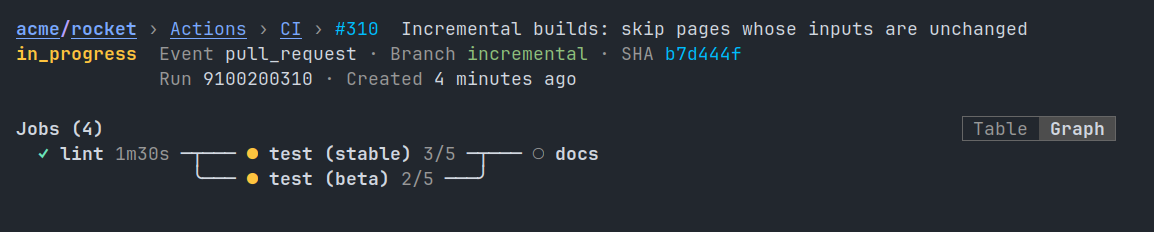
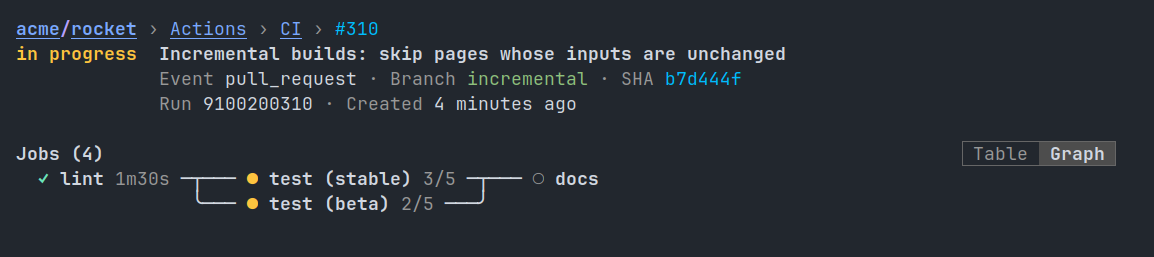
Show a run's title whole under its crumbs, and states in words
A run page's top row ended with its title, cut to fit.  The crumbs now
end at the run's number, and the state heads the title on the next
line, wrapped rather than cut, with the details lined up under it, as
on an issue or PR page.  The pin keeps the title.

Runs, jobs and steps show their state in words, "in progress" for the
API's "in_progress".  A new screenshot shows a run scrolled, pinned.

Changed region(s): [[0.0, 0.0905, 0.9047, 0.4526], [0.0, 0.5129, 0.5303, 0.8448], [0.8423, 0.4828, 0.9671, 0.6638]]

diff --git a/CHANGELOG.md b/CHANGELOG.md
@@ -4,6 +4,8 @@ All notable changes to this project will be documented in this file.
 The format is based on [Keep a Changelog](https://keepachangelog.com/en/1.0.0/).
 
 ## [Unreleased]
+* Runs, jobs and steps show their state in words, as "in progress", not "in_progress"
+* A workflow run's title shows whole, on a line of its own under the breadcrumbs
 * `C-c C-j` on a PR's pages finds files at the PR's head, not the default branch
 * A long comment folded inside a collapsed <details> no longer loses its rail
 * RET on a timeline's "mentioned this in #N" opens that issue or PR

diff --git a/docs/screenshots/README.md b/docs/screenshots/README.md
@@ -366,6 +366,15 @@ workflow's `needs` say; `RET` on one opens it:
 [As text](run.txt)
 <!-- /screenshot -->
 
+Scrolled down, past its header: the header line pins its state,
+workflow, number and title.
+
+<!-- screenshot: (run "acme/rocket" 9100200300) :name "run-scrolled" :scroll "Artifacts (1)" -->
+![run-scrolled](run-scrolled.png)
+
+[As text](run-scrolled.txt)
+<!-- /screenshot -->
+
 A run still going: a running job's row names the step it is on.
 
 <!-- screenshot: (run "acme/rocket" 9100200310) :name "run-in-progress" -->
